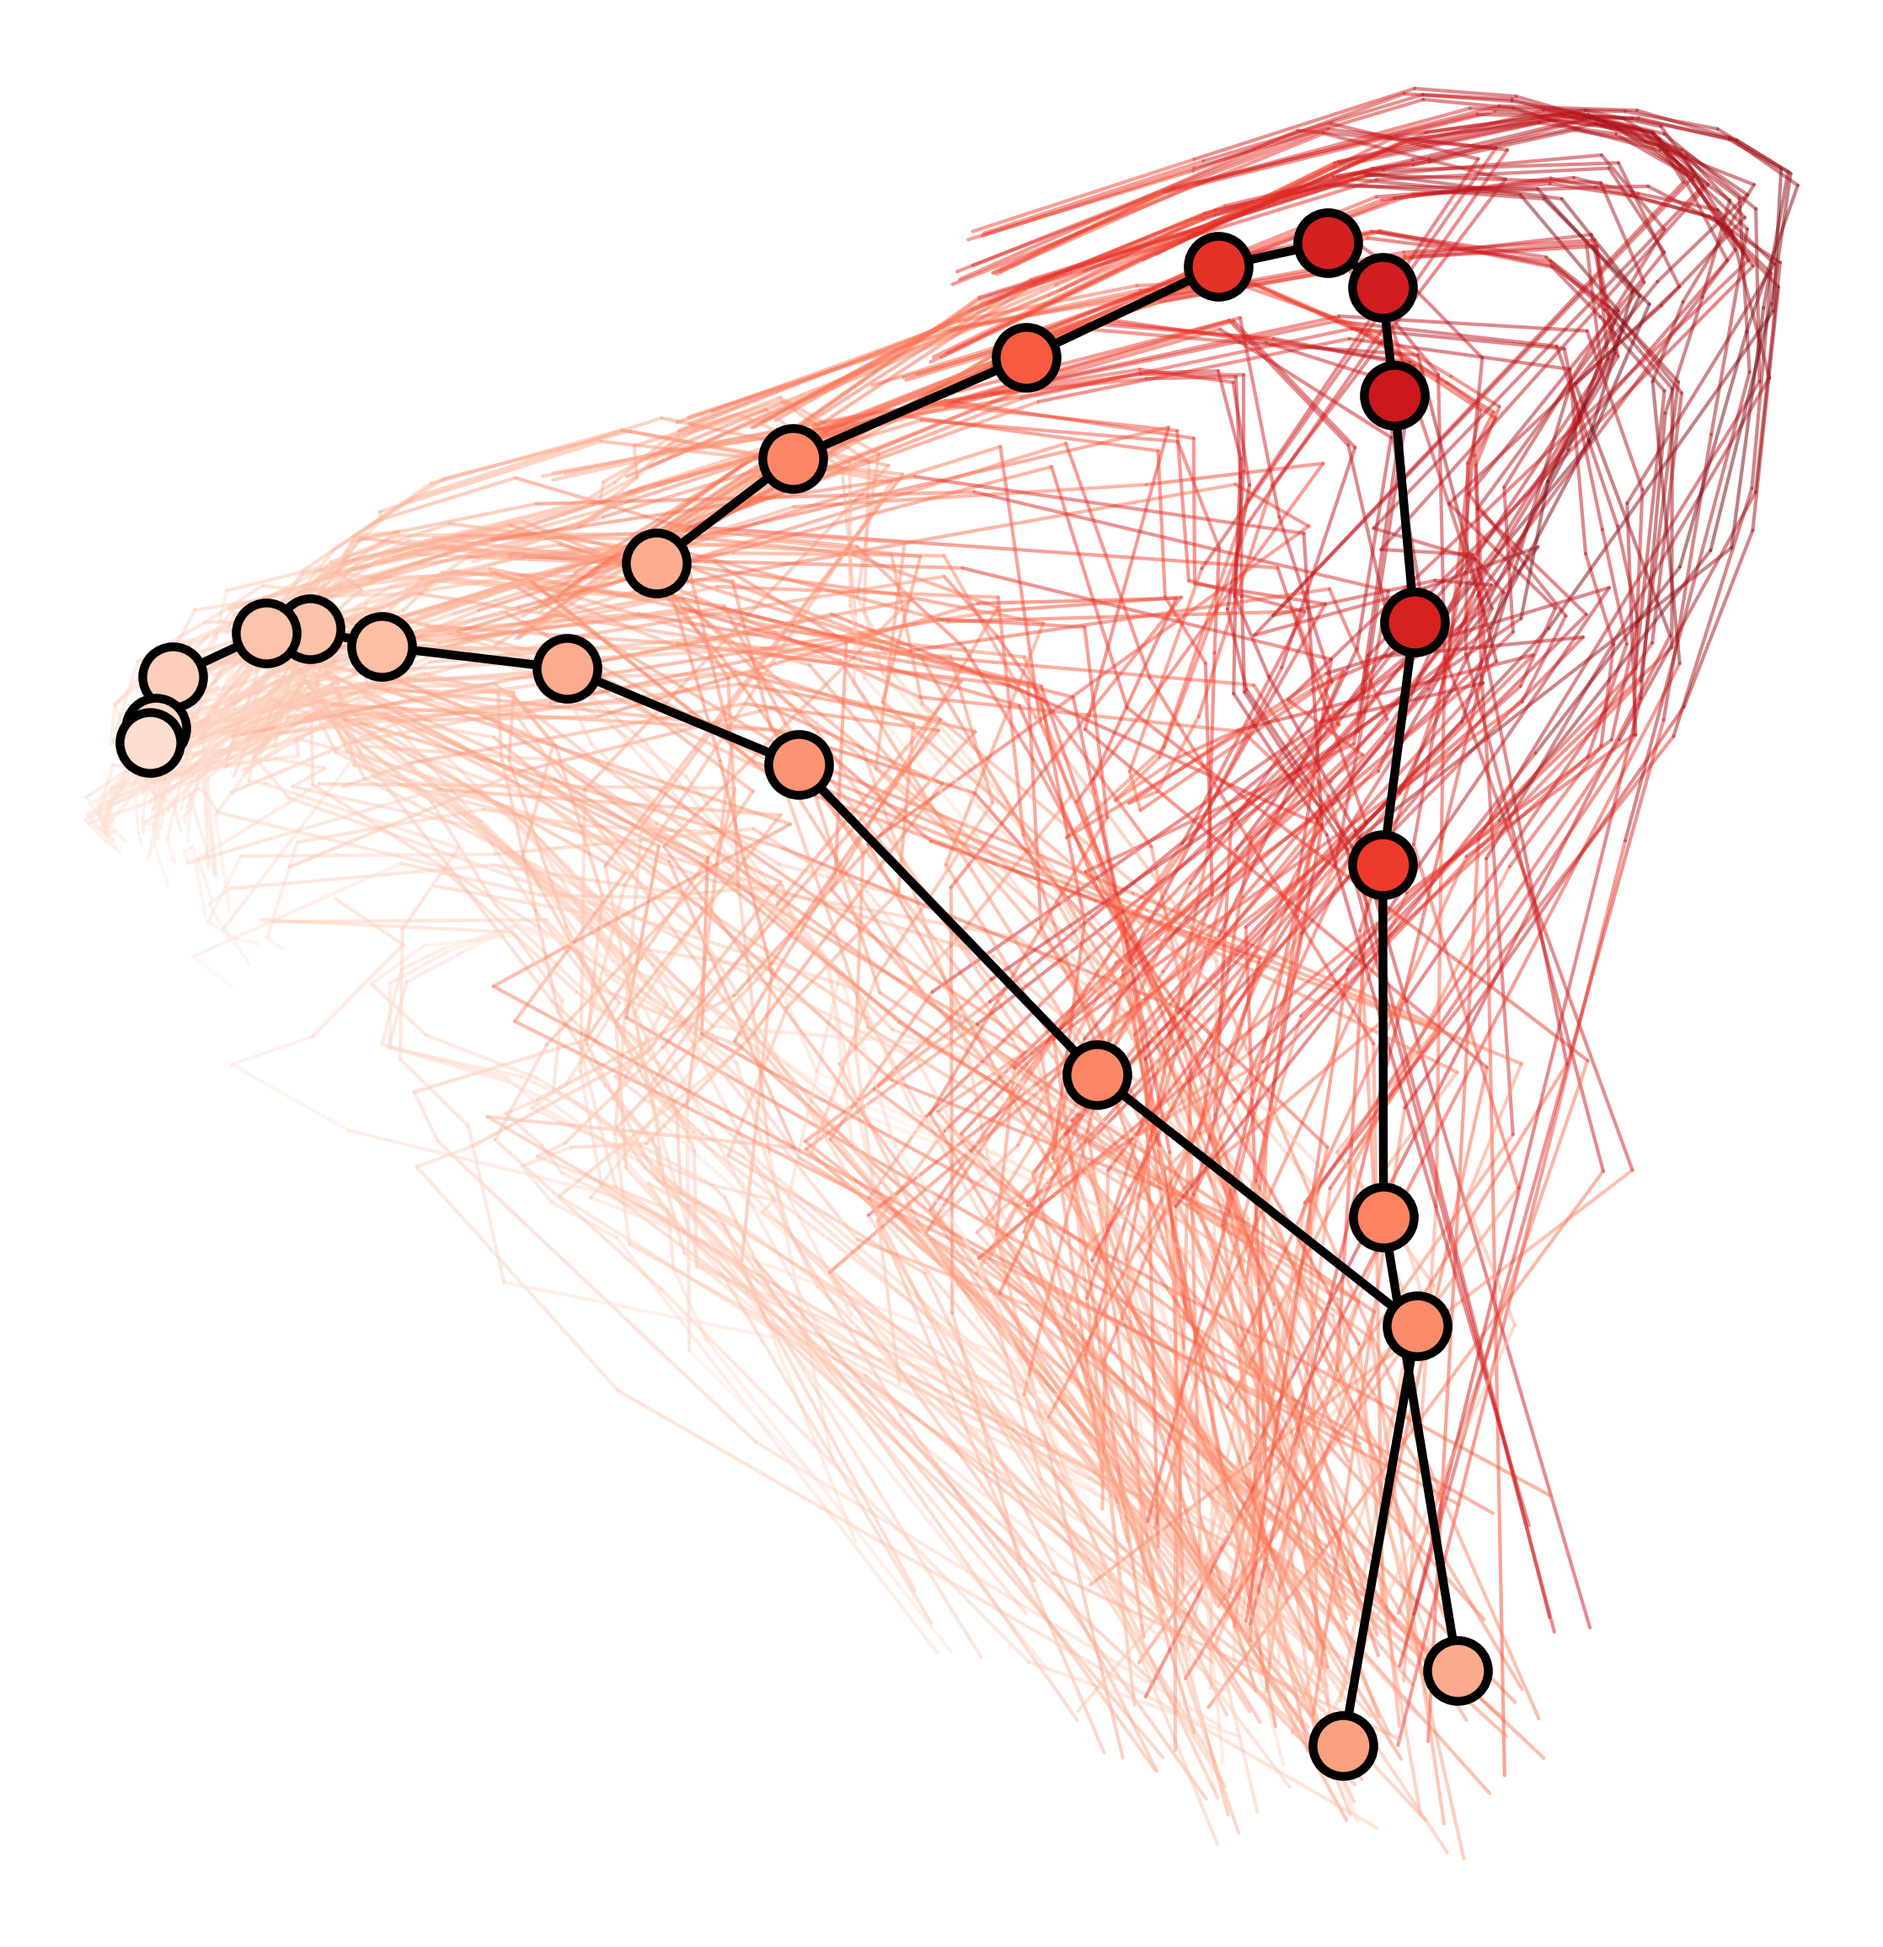
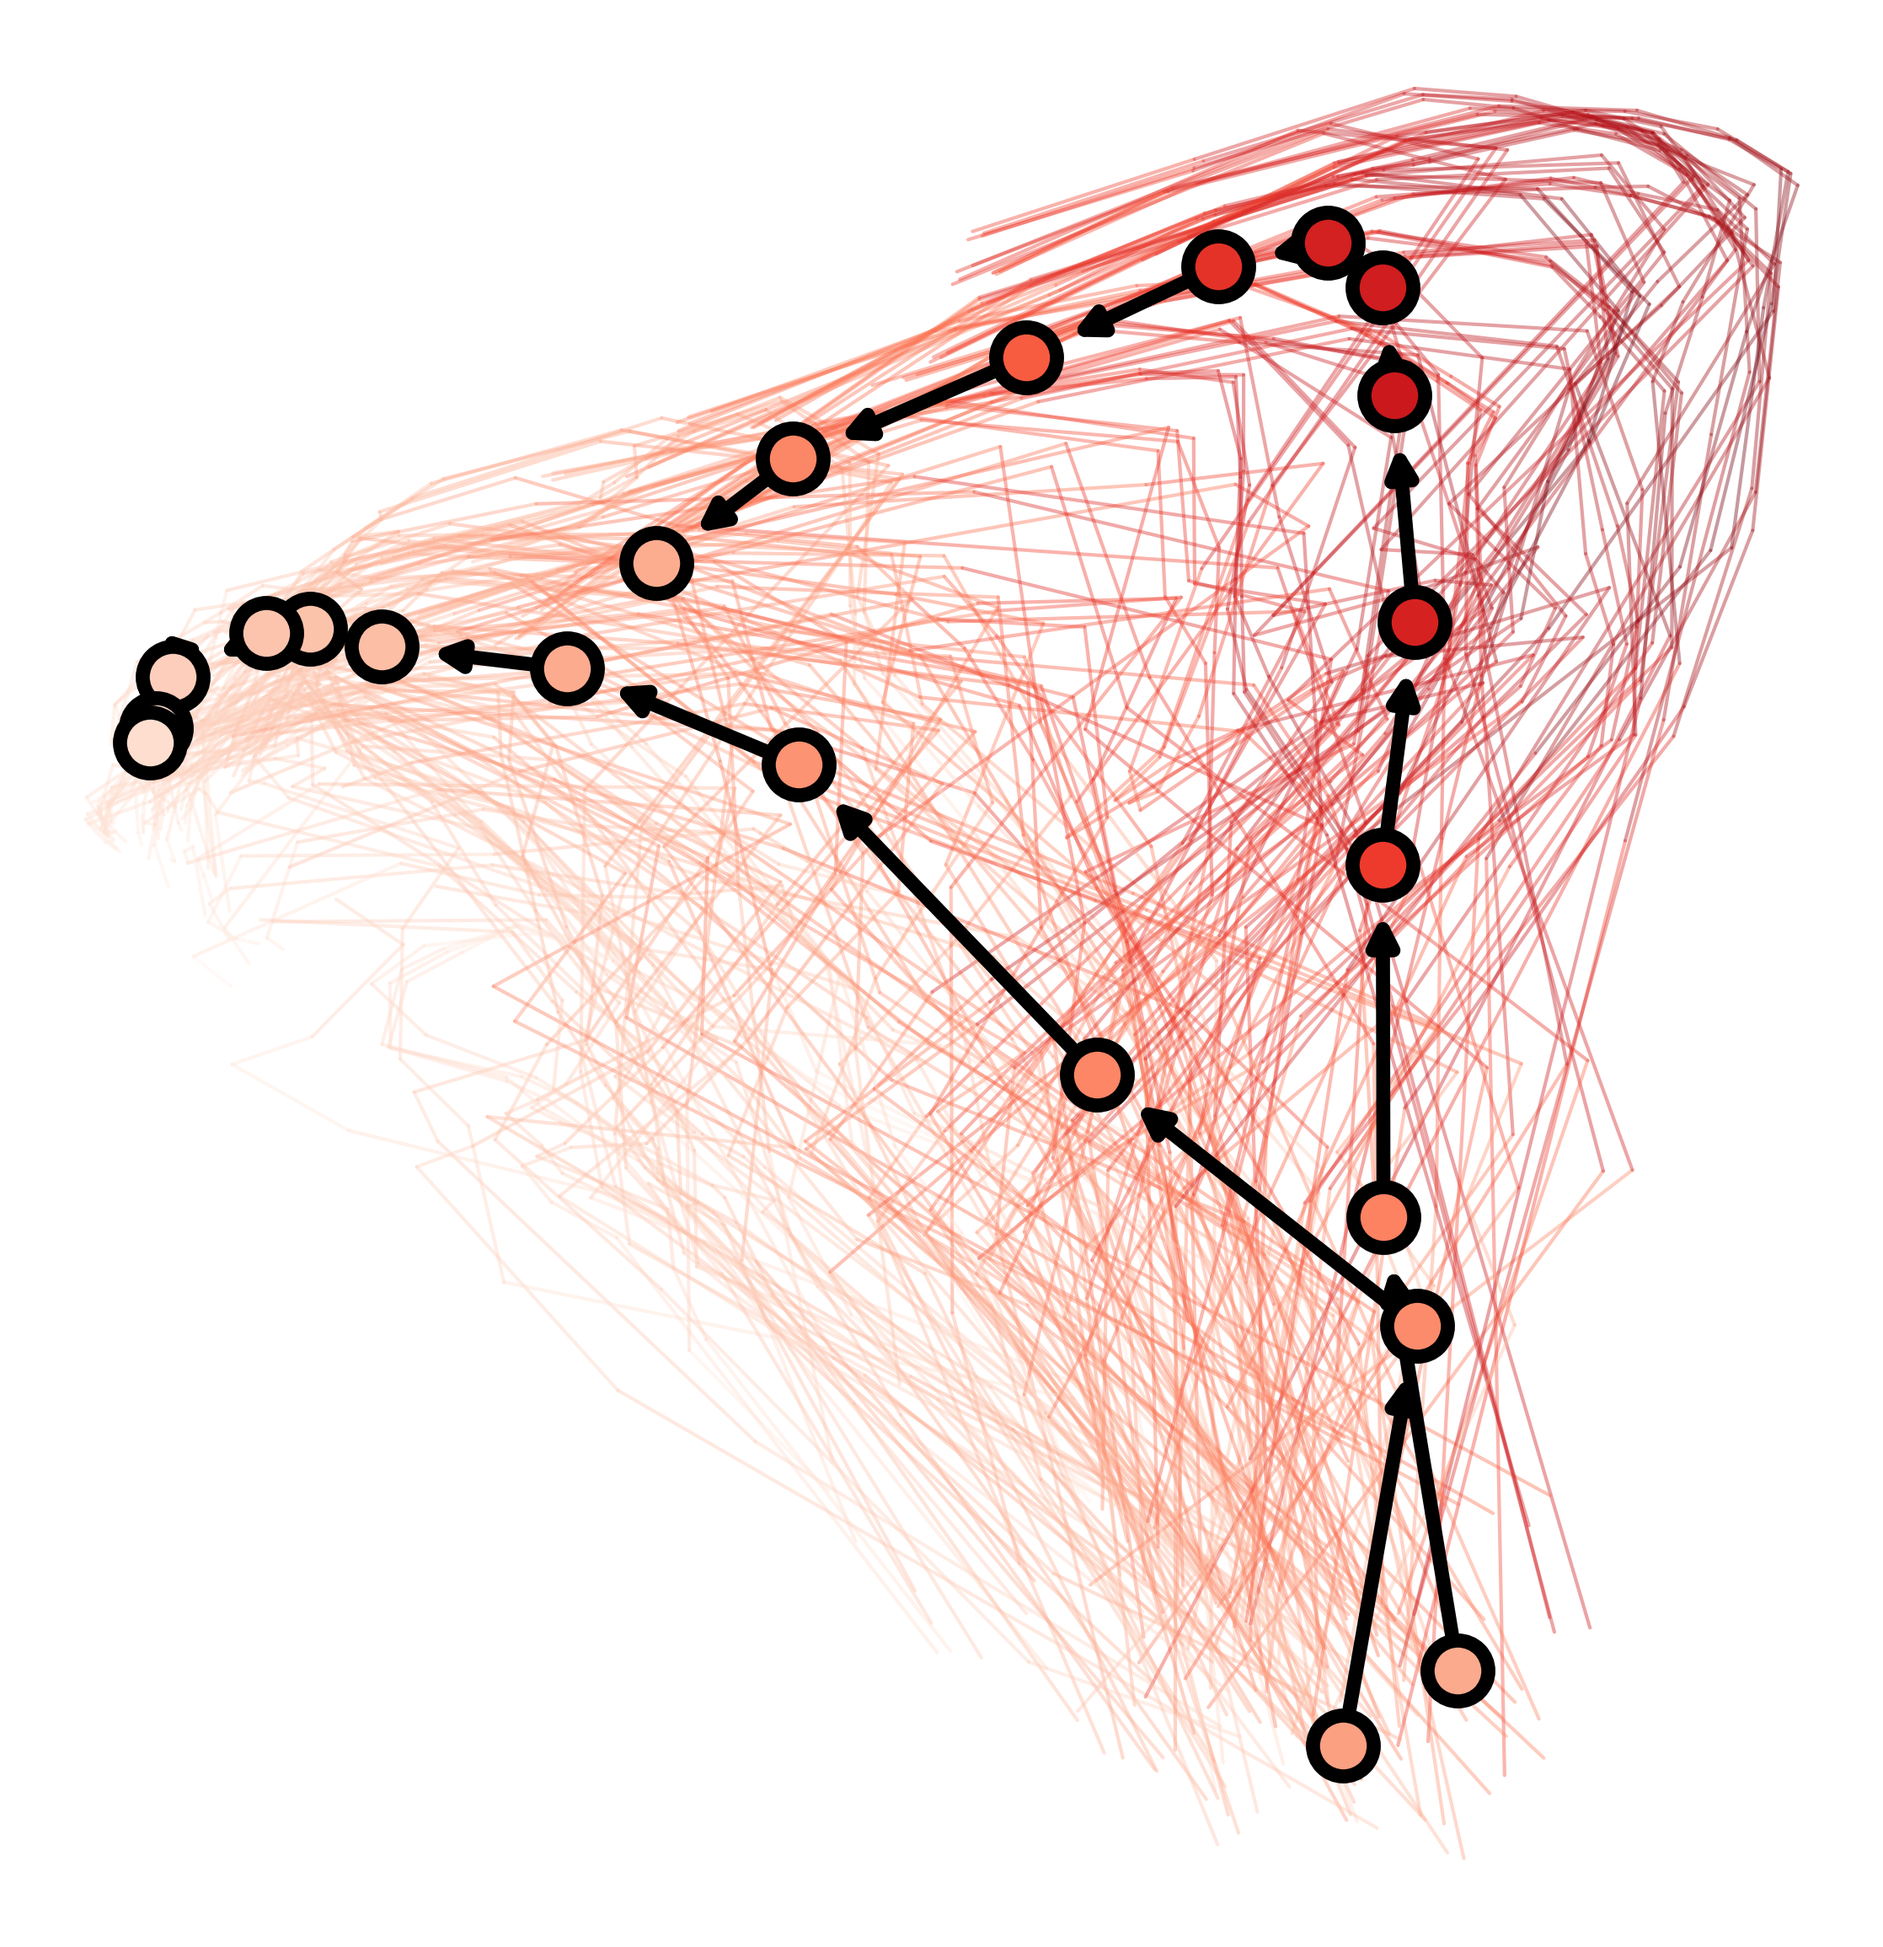
Figures: pc_highlighted — alpha 0.4, thicker chain, per-segment arrowheads
Three tweaks per request:

- bg-alpha 0.5 → 0.4 (backdrop a touch fainter)
- hl-linewidth 2.5 → 4.0 (chunkier chain, thicker marker outlines)
- Each segment in a highlighted trajectory is now its own
  FancyArrowPatch with arrowstyle '-|>'. Arrowheads point from step
  N to step N+1, indicating the direction of KL-ascent optimization.
  shrinkB=14pt pulls the arrow tip back from the next marker so the
  head sits just outside the marker circle rather than getting
  hidden behind it.

New flags --hl-arrow-scale and --hl-arrow-shrink expose the arrowhead
sizing if it needs further tuning.

diff --git a/figures/pc_highlighted.py b/figures/pc_highlighted.py
@@ -26,6 +26,7 @@ import matplotlib.pyplot as plt
 import numpy as np
 import torch
 from matplotlib.collections import LineCollection
+from matplotlib.patches import FancyArrowPatch
 from sklearn.decomposition import PCA
 
 sys.path.insert(0, str(Path(__file__).resolve().parent.parent / "src"))
@@ -61,7 +62,7 @@ def main() -> None:
     ap.add_argument("--size", type=float, default=10.0)
     ap.add_argument("--dpi", type=int, default=300)
     ap.add_argument(
-        "--bg-alpha", type=float, default=0.5,
+        "--bg-alpha", type=float, default=0.4,
         help="Alpha for background trajectory edges.",
     )
     ap.add_argument(
@@ -69,12 +70,23 @@ def main() -> None:
         help="Linewidth for background trajectory edges.",
     )
     ap.add_argument(
-        "--hl-linewidth", type=float, default=2.5,
+        "--hl-linewidth", type=float, default=4.0,
         help="Linewidth for both highlighted edges and marker outlines.",
     )
     ap.add_argument(
         "--hl-marker-size", type=float, default=300,
         help="Marker size for highlighted trajectory points.",
+    )
+    ap.add_argument(
+        "--hl-arrow-scale", type=float, default=15,
+        help="mutation_scale for the per-segment arrowheads on the "
+             "highlighted trajectories. Bigger = larger arrowheads.",
+    )
+    ap.add_argument(
+        "--hl-arrow-shrink", type=float, default=14,
+        help="Shrink the arrow tip by this many points before reaching "
+             "the next marker, so the arrowhead sits just outside the "
+             "marker circle rather than getting hidden behind it.",
     )
     args = ap.parse_args()
     if isinstance(args.highlight, str):
@@ -166,16 +178,30 @@ def main() -> None:
         )
         ax.add_collection(lc)
 
-    # Highlighted: black chain with per-step persona-colored beads
+    # Highlighted: each segment is its own FancyArrowPatch, so we get a
+    # black shaft followed by a small filled arrowhead pointing at the
+    # next marker. shrinkB pulls the arrowhead back from the marker
+    # boundary so the marker doesn't cover the arrow tip. Markers are
+    # drawn on top, filling the gap between consecutive segments.
     for key in sorted(args.highlight):
         if key not in trajs:
             print(f"  WARN: highlight {key} not found in data")
             continue
         rows = trajs[key]
-        xs = [r["pc"][0] for r in rows]
-        ys = [r["pc"][1] for r in rows]
-        ax.plot(xs, ys, color="black",
-                linewidth=args.hl_linewidth, zorder=10)
+        for i in range(len(rows) - 1):
+            p1, p2 = rows[i], rows[i + 1]
+            arrow = FancyArrowPatch(
+                (float(p1["pc"][0]), float(p1["pc"][1])),
+                (float(p2["pc"][0]), float(p2["pc"][1])),
+                arrowstyle="-|>",
+                mutation_scale=args.hl_arrow_scale,
+                color="black",
+                linewidth=args.hl_linewidth,
+                shrinkA=0,
+                shrinkB=args.hl_arrow_shrink,
+                zorder=10,
+            )
+            ax.add_patch(arrow)
         for r in rows:
             ax.scatter(
                 r["pc"][0], r["pc"][1],
